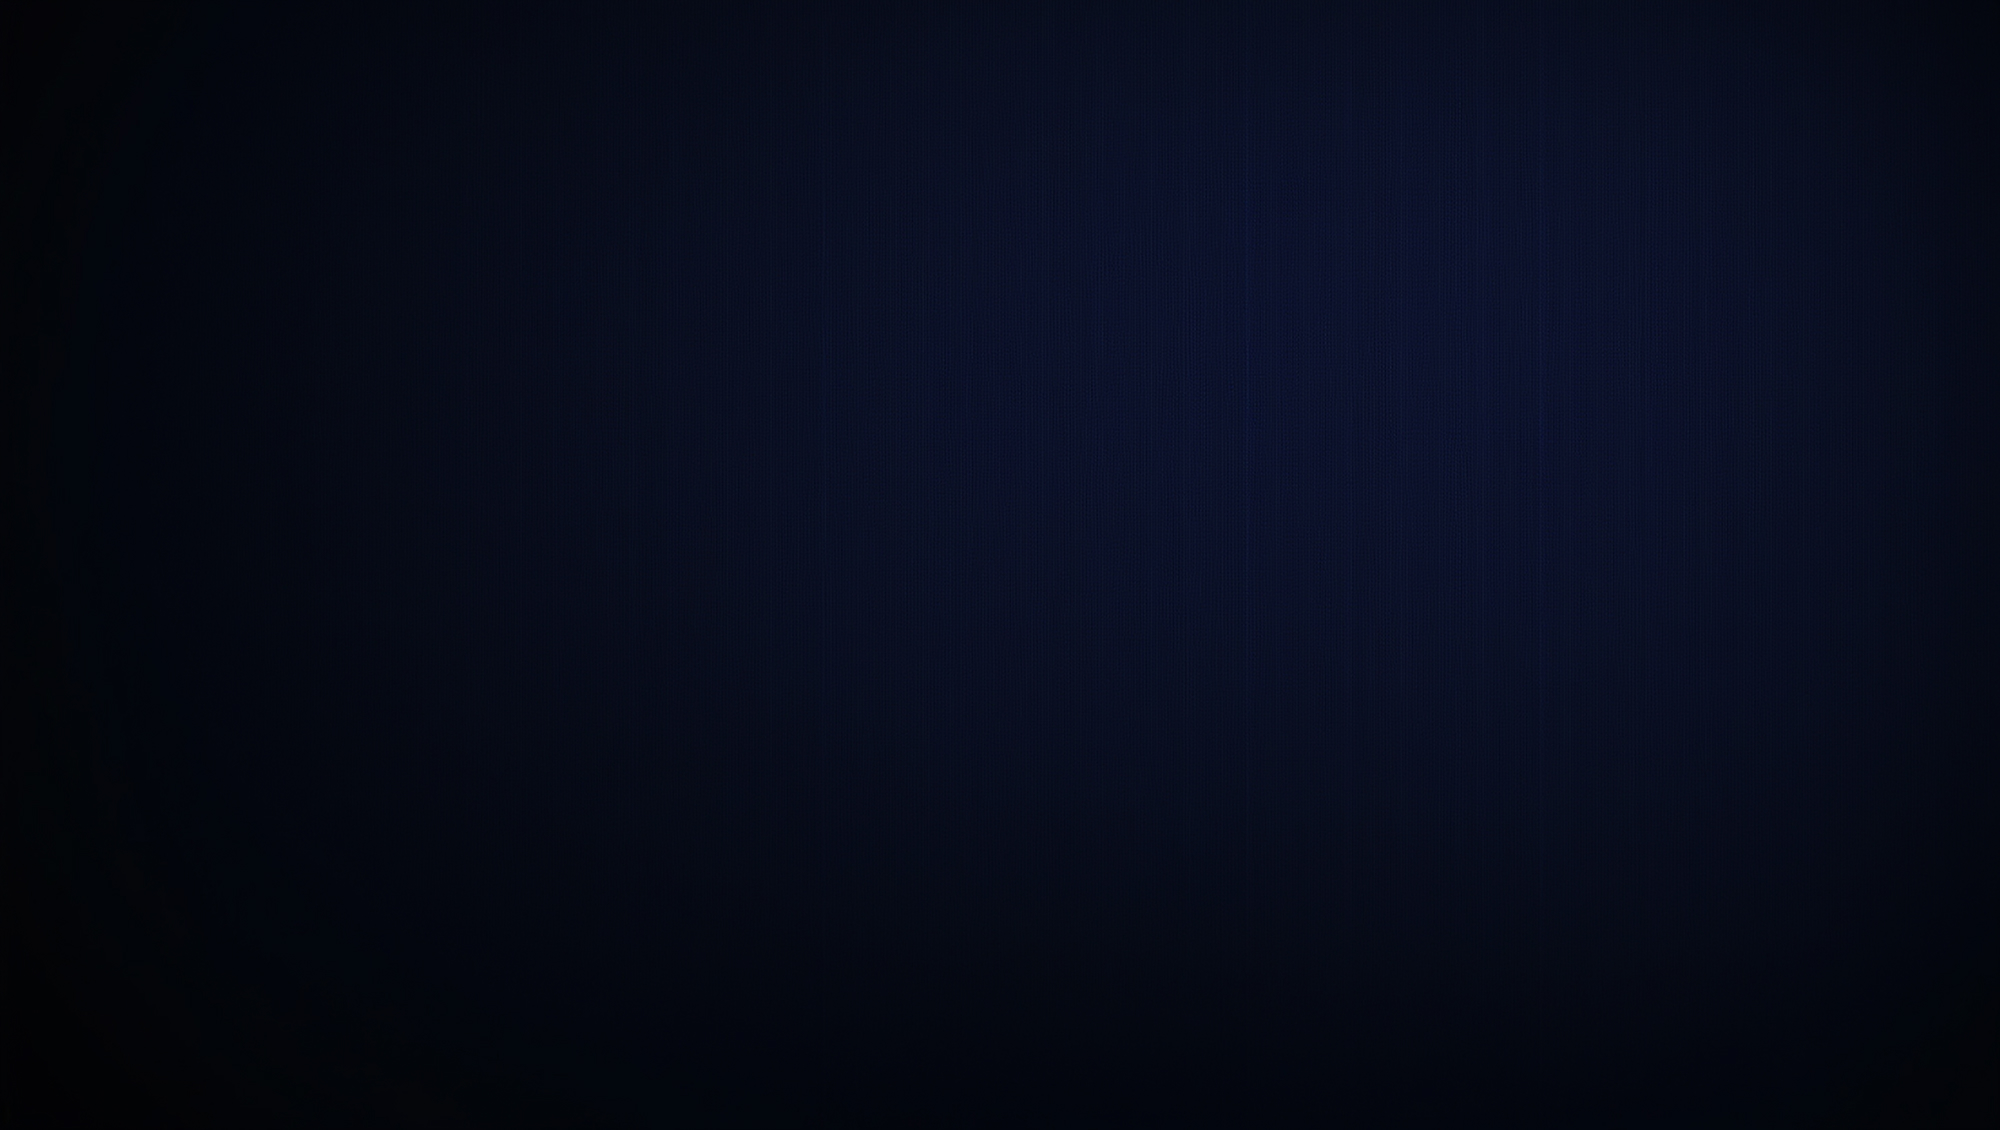
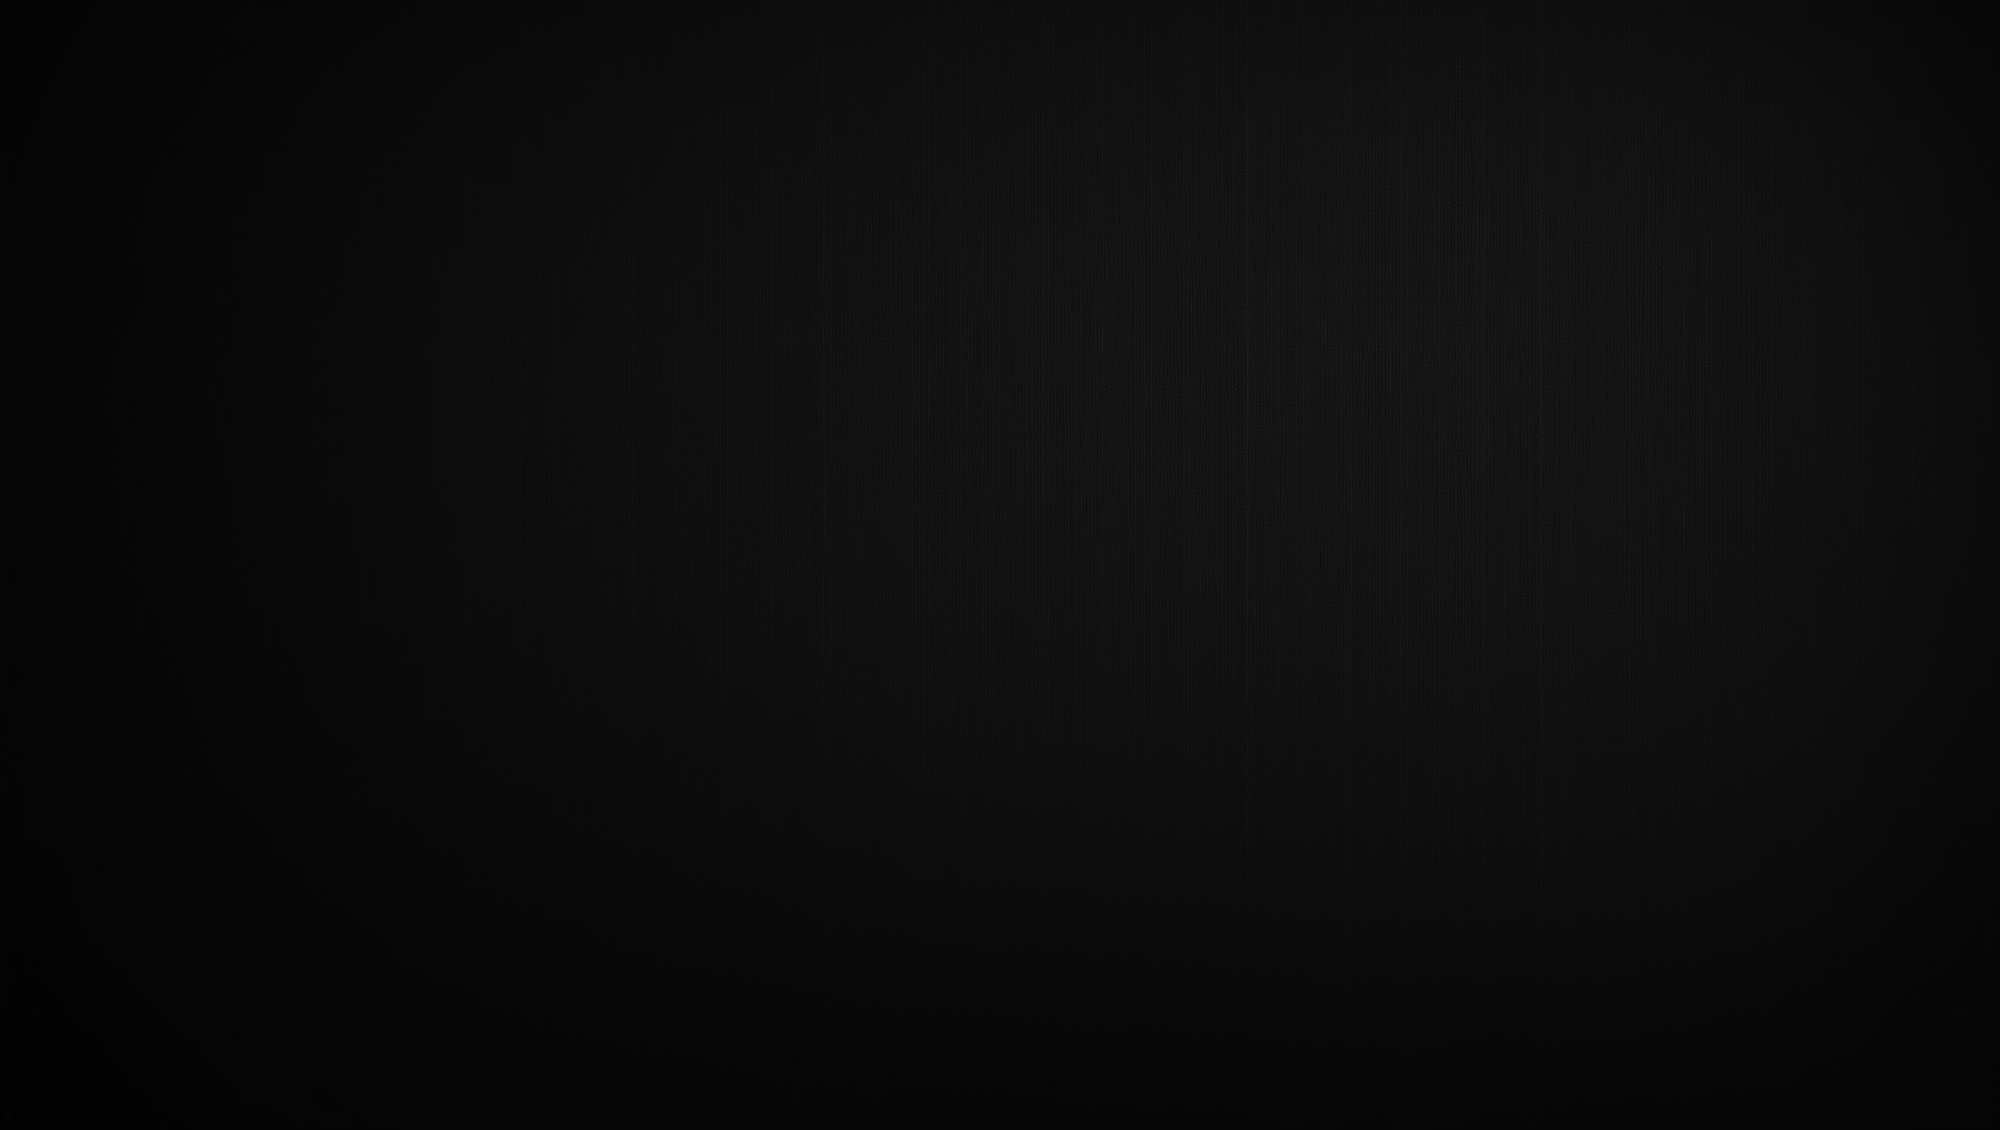
feat: Atualiza estrutura das páginas

Changed region(s): [[0.589, 0.1549, 0.806, 0.4336]]

diff --git a/tailwind.config.js b/tailwind.config.js
@@ -6,7 +6,7 @@ export const theme = {
       primary: "#DBB14C",
       secondary: "#1C1A1F",
       bgSectionLight: "#FFFFFF",
-      bgSectionDark: "#182337",
+      bgSectionDark: "#1C1A1F",
       links: "#0189BB",
       buttonColor: "#DBB14C",
       lighter: "#FFFFFF",
